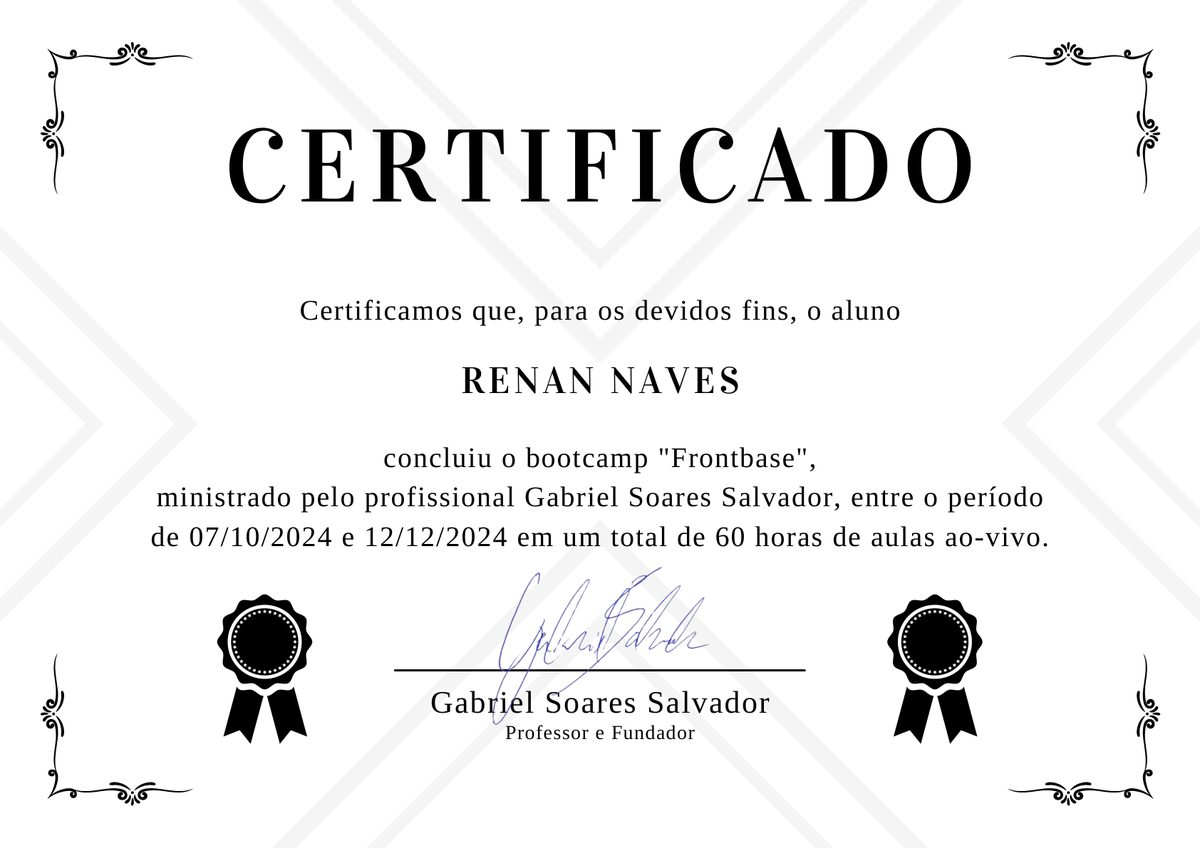
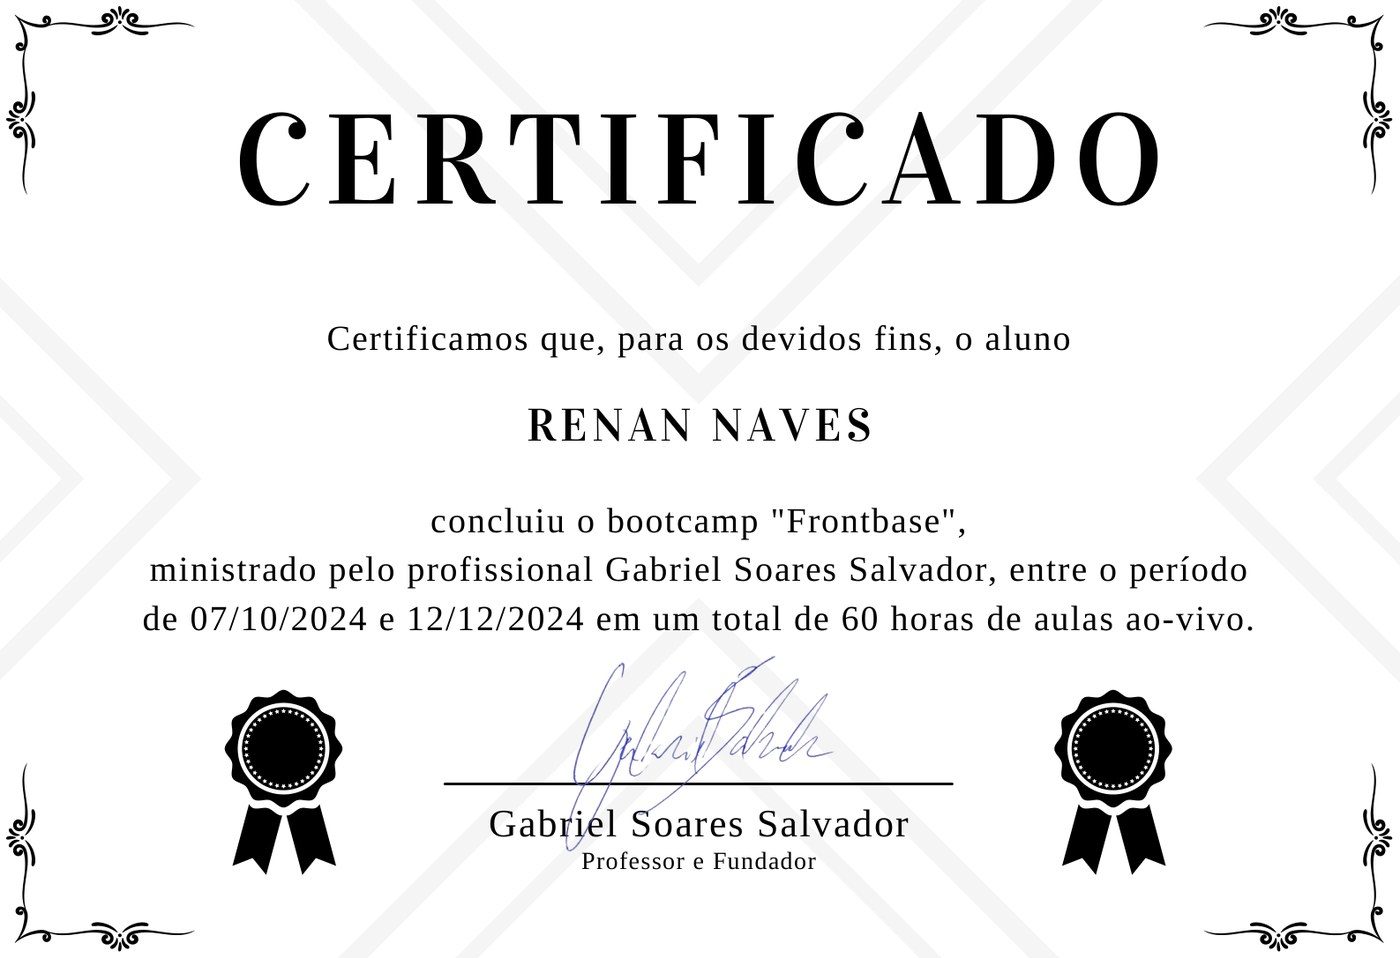
Corrige o enquadramento das capas dos certificados.
Usa object-contain com padding no card e regenera as capas sem margem branca do PDF, para o documento inteiro aparecer sem corte.

diff --git a/src/components/ProjectsPage.tsx b/src/components/ProjectsPage.tsx
@@ -923,6 +923,7 @@ function ProjectsPage({
                       className={[
                         "projects-carousel__media pointer-events-none absolute inset-0 overflow-hidden rounded-2xl transition-opacity duration-300",
                         isActive ? "opacity-100" : "opacity-50",
+                        isCertificates ? "bg-neutral-950" : "",
                       ].join(" ")}
                     >
                       <img
@@ -931,11 +932,25 @@ function ProjectsPage({
                         loading="lazy"
                         decoding="async"
                         draggable={false}
-                        className="absolute inset-0 h-full w-full object-cover object-center select-none"
+                        className={[
+                          "absolute inset-0 h-full w-full select-none",
+                          // Certificados: contain para não cortar o documento; projetos: cover.
+                          isCertificates
+                            ? "object-contain object-center p-3 md:p-4"
+                            : "object-cover object-center",
+                        ].join(" ")}
                       />
-                      <div className="absolute inset-0 bg-neutral-950/20" />
+                      {!isCertificates ? (
+                        <div className="absolute inset-0 bg-neutral-950/20" />
+                      ) : null}
                       <div className="absolute inset-0 bg-[radial-gradient(ellipse_at_top_right,rgba(168,85,247,0.16),transparent_55%)]" />
-                      <div className="absolute inset-0 bg-linear-to-t from-neutral-950 via-neutral-950/65 to-neutral-950/5" />
+                      <div
+                        className={
+                          isCertificates
+                            ? "absolute inset-0 bg-linear-to-t from-neutral-950/95 via-neutral-950/50 to-transparent"
+                            : "absolute inset-0 bg-linear-to-t from-neutral-950 via-neutral-950/65 to-neutral-950/5"
+                        }
+                      />
                     </div>
 
                     {/* Filete fino contínuo + quinas grossas (só nos cantos) */}
